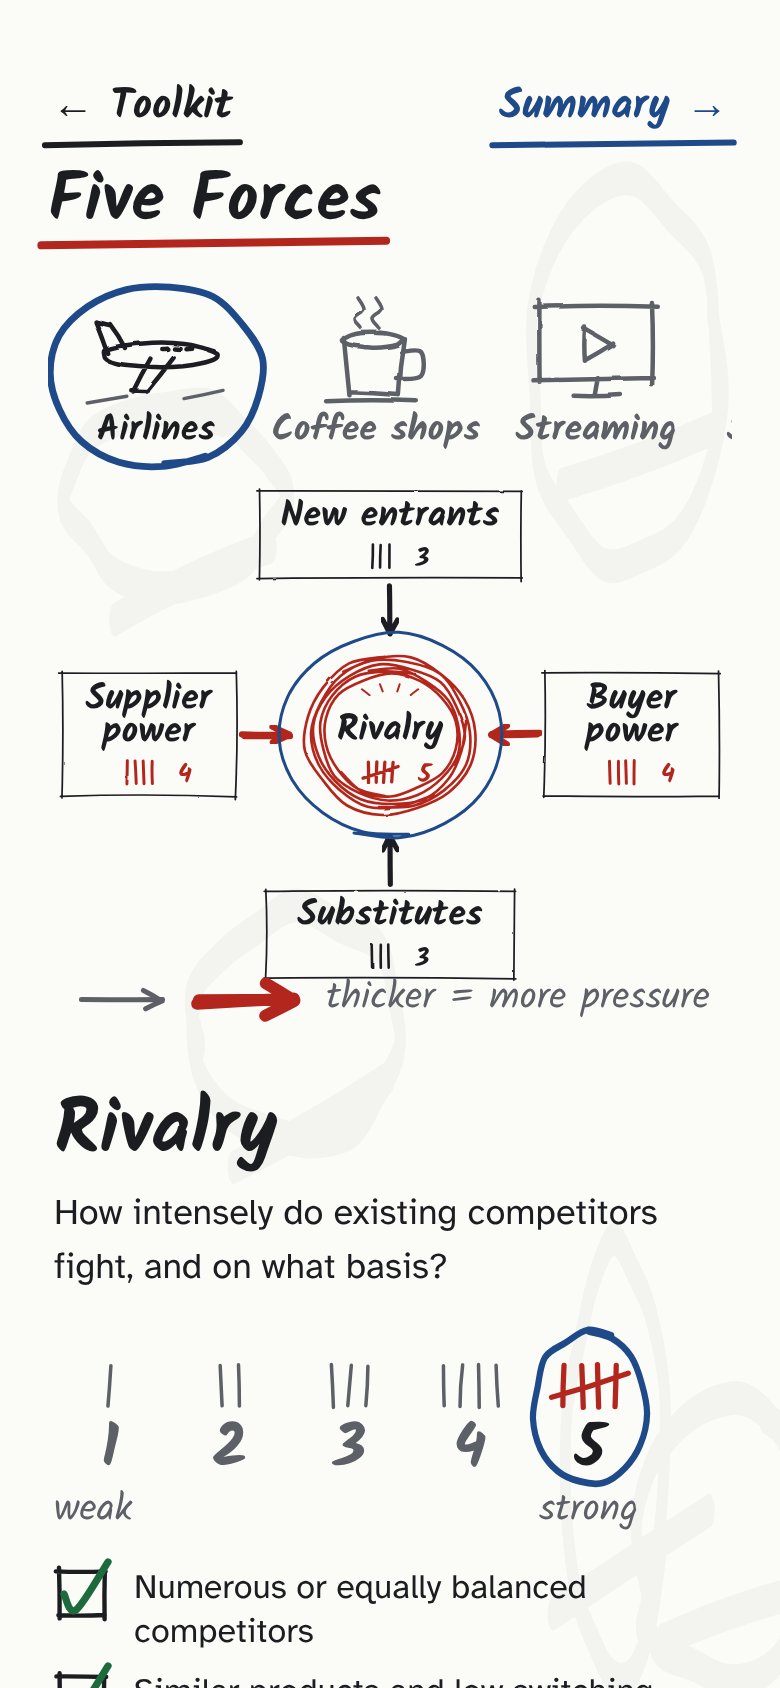
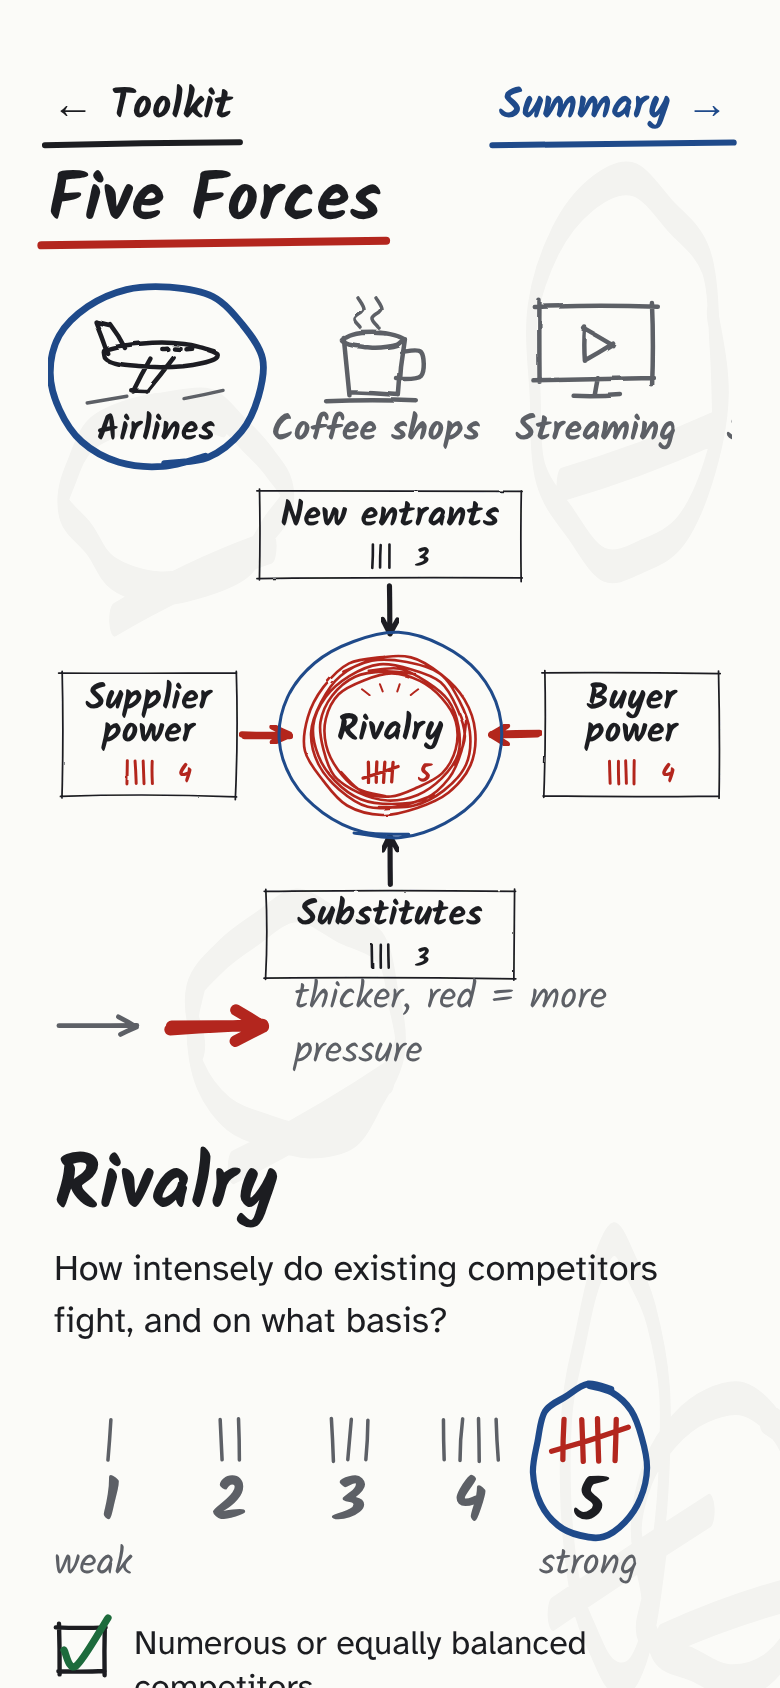
Whiteboard mockup: explain red in the legend, drop unexplained red accent
Aligns with INTENT.md P10 (no unexplained differences in color or emphasis).

Claude-Session: https://claude.ai/code/session_01AGW3BszPec7SWmZBAe4Ha7

Changed region(s): [[0.0615, 0.6469, 0.8308, 1.0], [0.0923, 0.5545, 0.9231, 0.6469]]

diff --git a/design/whiteboard/index.html b/design/whiteboard/index.html
@@ -226,7 +226,7 @@ const TOOLS = [
   ['Journey map', c=>{const p=[[10,64],[32,30],[58,58],[82,26],[110,46]];return P(smooth(p),c,2.6,'stroke-dasharray="7 5"')+P(p.map(([x,y])=>ell(x,y,3.5,3.5,{n:8})).join(''),c,3.2);}],
   ['Perceptual map', c=>P(line(60,6,60,84,.5)+line(12,45,108,45,.5),c,2.4,'stroke-dasharray="7 5"')+P([[34,24],[42,30],[84,62],[92,22],[30,66]].map(([x,y])=>ell(x,y,3,3,{n:8})).join(''),c,3.4)],
   ['PESTEL', c=>`<text x="60" y="54" font-size="22" text-anchor="middle" letter-spacing="2" style="fill:var(--pencil)">PESTEL</text>`+P(line(14,64,106,64,.5),c,2.4,'stroke-dasharray="7 5"')+P(ell(60,46,52,20,{over:.4}),c,2.2,'stroke-dasharray="7 5"')],
-  ['Break-even', c=>P(line(14,8,14,82,.4)+line(14,82,110,82,.4),c,2.4,'stroke-dasharray="7 5"')+P(line(16,80,106,16,.5)+line(16,50,106,36,.5),c,2.6)+P(ell(68,42,5,5,{n:8}),C.red,3)],
+  ['Break-even', c=>P(line(14,8,14,82,.4)+line(14,82,110,82,.4),c,2.4,'stroke-dasharray="7 5"')+P(line(16,80,106,16,.5)+line(16,50,106,36,.5),c,2.6)+P(ell(68,42,5,5,{n:8}),c,3)],
   ['Lifetime value', c=>P(poly([[14,80],[14,66],[34,66],[34,52],[54,52],[54,38],[74,38],[74,24],[94,24]]),c,2.6,'stroke-dasharray="7 5"')+P(line(84,40,108,10,.4)+arrowHead(84,40,108,10,11),c,2.6)],
 ];
 
@@ -355,7 +355,7 @@ function viewBoard(){
     <div class="work">
       <div>
         ${diagram(i.id,{selected:fid})}
-        <div class="legend" aria-hidden="false"><svg viewBox="0 0 120 26" aria-hidden="true">${(seed('lg'),P(line(6,13,46,13,.3)+arrowHead(6,13,46,13,10),C.pencil,2.5)+P(line(64,13,112,13,.3)+line(64,15,112,12,.3)+arrowHead(64,13,112,13,16),C.red,6))}</svg>thicker = more pressure</div>
+        <div class="legend" aria-hidden="false"><svg viewBox="0 0 120 26" aria-hidden="true">${(seed('lg'),P(line(6,13,46,13,.3)+arrowHead(6,13,46,13,10),C.pencil,2.5)+P(line(64,13,112,13,.3)+line(64,15,112,12,.3)+arrowHead(64,13,112,13,16),C.red,6))}</svg>thicker, red = more pressure</div>
       </div>
       <section class="notes" aria-live="polite" aria-labelledby="fname">
         <h2 id="fname">${ONE[fid]}</h2>
